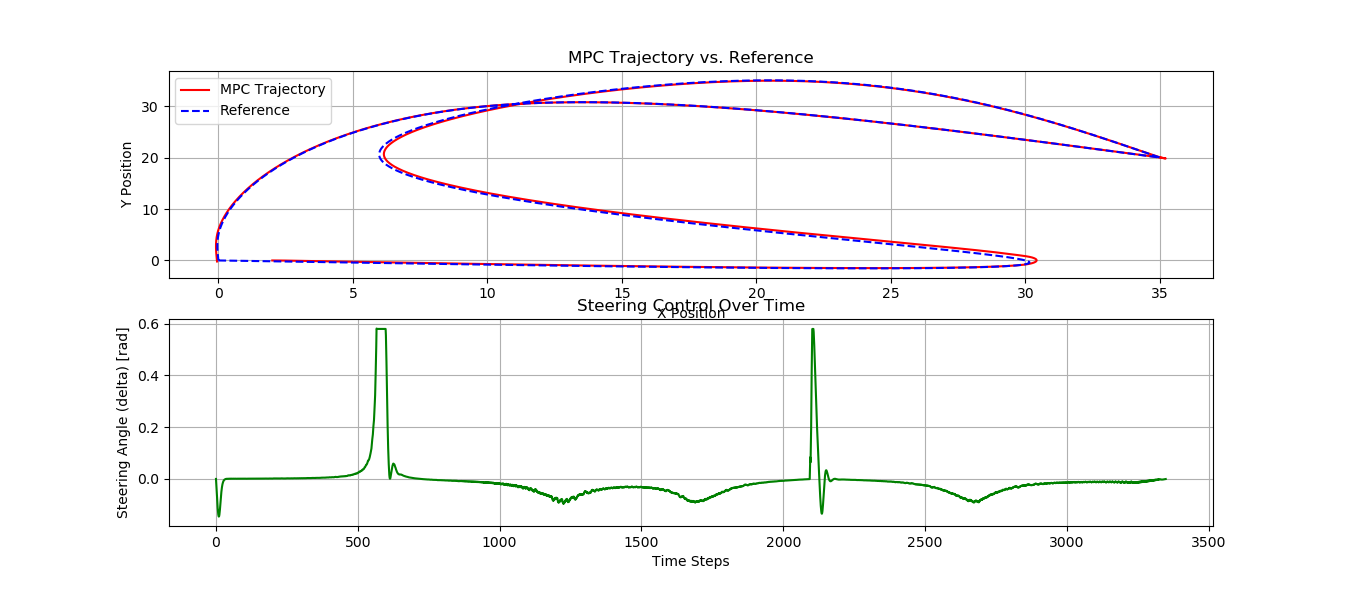
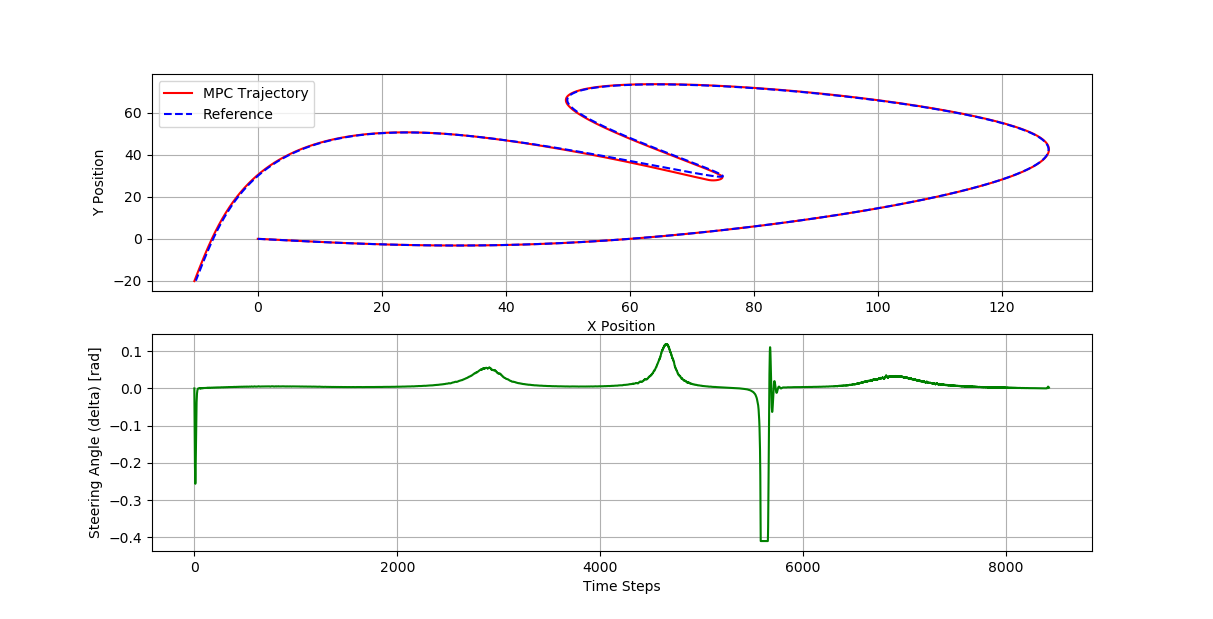
bug fixed

diff --git a/main.cpp b/main.cpp
@@ -27,10 +27,10 @@ int main() {
     //getStraightCourse(dl, cx, cy, cyaw, ck);
     //getStraightCourse2(dl, cx, cy, cyaw, ck);
     //getStraightCourse3(dl, cx, cy, cyaw, ck);
-    //getForwardCourse(dl, cx, cy, cyaw, ck);
+    getForwardCourse(dl, cx, cy, cyaw, ck);
 
-    getSwitchBackCourse(dl, cx, cy, cyaw, ck);
-    x0 << 2, 0, 0, 0; // start and start is the same
+    //getSwitchBackCourse(dl, cx, cy, cyaw, ck);
+    //x0 << 2, 0, 0, 0; // start and start is the same
 
     std::vector<double> sp = calcSpeedProfile(cx, cy, cyaw, TARGET_SPEED);
     // set the preview window

diff --git a/README.md b/README.md
@@ -1,6 +1,11 @@
-# MPC_BicycleModel
+## MPC_BicycleModel
 This repository contains cpp model predictive controller (MPC) for controling a vehicle based on bicycle model
 
+# Notes
+- The repository uses a cubic planner to produce path based on waypoints.
+- Use direct linearized dynamic model to get faster performance.
+- Use RK4 model to get more accurate result.
+- Change the smoothYaw mechanism to get smoother yaw for sharp edges.
 
 ## Dependencies
 - [boost v1.58](https://www.boost.org/users/history/version_1_58_0.html)
